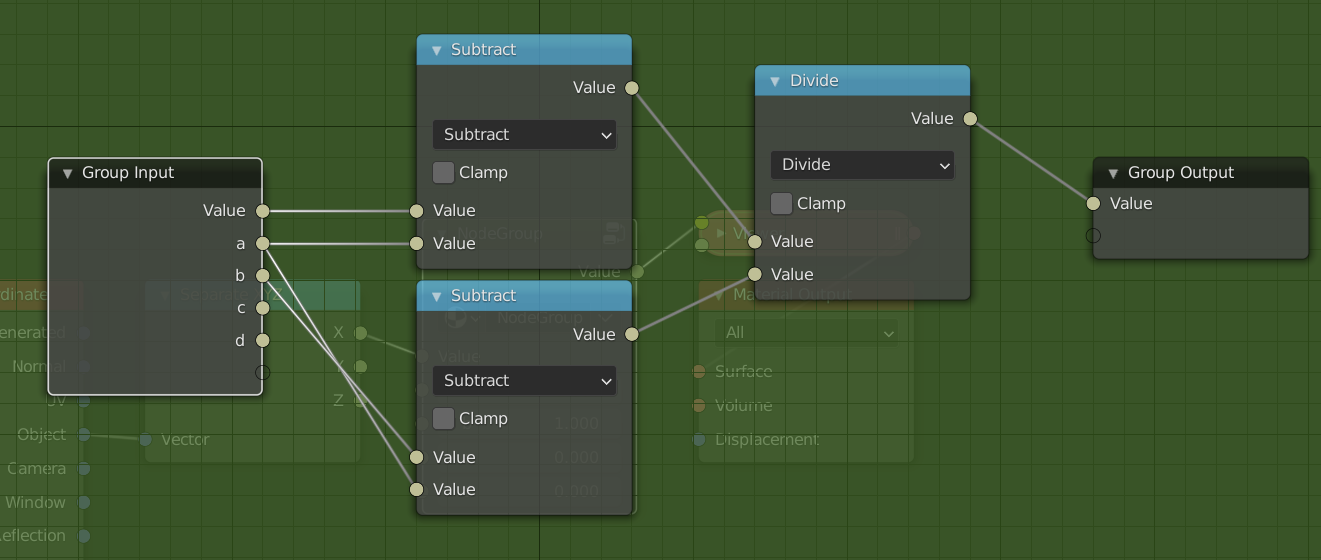
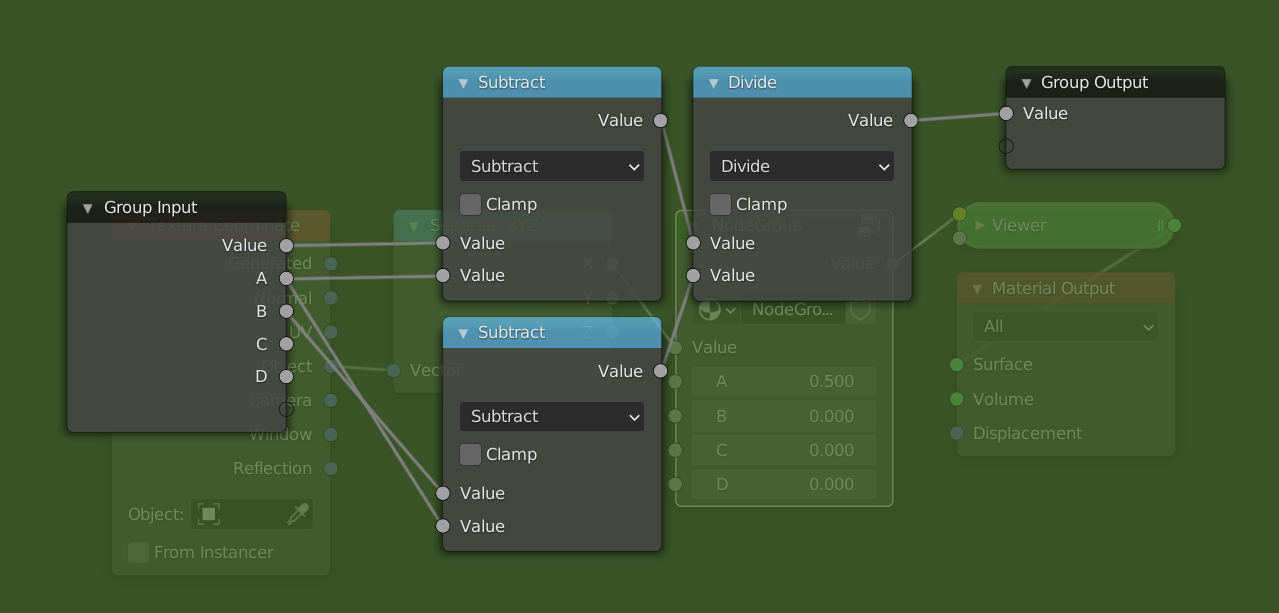
Fix consistency between sections. - All nodes and ranges are now in inline code blocks - Images used are from blender 2.93 (for correct socket colors)

diff --git a/src/mnode/basic_ops.md b/src/mnode/basic_ops.md
@@ -4,11 +4,11 @@ We will start from this node tree:
 
 ![Starting node group](images/mn1.png)
 
-We will go into more detail on coordinates in a later chapter, for now all you need to know is that the object coordinates are centered at the object origin, and go from -1 to 1 in all three axes in this case. The separate xyz allows us to only look at one axis at a time, in this case the x-axis. The viewer node is just a renamed emission node.
+We will go into more detail on coordinates in a later chapter, for now all you need to know is that the object coordinates are centered at the object origin, and go from -1 to 1 in all three axes in this case. The `Separate XYZ` node allows us to only look at one axis at a time, in this case the x-axis. The viewer node is just a renamed `Emission Shader` node.
 
 ## Thinking in terms of ranges
 
-The current output shows black in the left half and grey values going to white in the right half. This is one way to describe the output, but from this it is not so clear what the actual output values are. A better way to think about the output image is as a *linear gradient from -1 to 1*. The *range* of the gradient is [-1, 1] in this case. What this means is that the pixel value as you move from one side to the other changes from -1 to 1. The change here is along the x axis and goes from left to right (from lower values to bigger values). Because values below 0 are displayed as black, the left half of the image is black. If the gradient was along the y-axis then it would be going from the bottom to the top. 
+The current output shows black in the left half and grey values going to white in the right half. This is one way to describe the output, but from this it is not so clear what the actual output values are. A better way to think about the output image is as a *linear gradient from -1 to 1*. The *range* of the gradient is `[-1, 1]` in this case. What this means is that the pixel value as you move from one side to the other changes from -1 to 1. The change here is along the x axis and goes from left to right (from lower values to bigger values). Because values below 0 are displayed as black, the left half of the image is black. If the gradient was along the y-axis then it would be going from the bottom to the top. 
 
 In addition to the range of values, we can also talk about the *shape* of the gradient. In this case the shape is linear, because when we plot the value of each pixel as we move from left to right the plotted shape is a line:
 
@@ -18,51 +18,51 @@ The most common shape is a linear gradient.
 
 ## The math node
 
-Now that we have learned about gradients and ranges, it is time to manipulate them. In this section we will look at the most basic operations: add, subtract, multiply and divide. What happens when we add a math node in between the separate xyz node and the viewer node? The values that go into the viewer node will now first pass through the math node. The math node will apply an operation to the values that are passed in and return a new value. By default the math node is set to add, and both values set to 0.5. The add, subtract, multiply and divide modes only affect the range and not the shape.
+Now that we have learned about gradients and ranges, it is time to manipulate them. In this section we will look at the most basic operations: `Add`, `Subtract`, `Multiply` and `Divide`. What happens when we add a `Math` node in between the `Separate XYZ` node and the viewer node? The values that go into the viewer node will now first pass through the `Math` node. The `Math` node will apply an operation to the values that are passed in, and return a new value. By default the `Math` node is set to `Add`, and both values set to 0.5. The `Add`, `Subtract`, `Multiply` and `Divide` modes only affect the range and not the shape.
 
 ![Node setup](images/mn2.png)
 
 ### Add and Subtract
 
-Currently the range is [-1, 1]. When it passes through the math node 0.5 is added to every value in the range. Luckily we don't need to think about what happens to every value in the range. We only need to look at the the two endpoints, i.e -1 and 1. Because we add 0.5 to everything, the range changes from [-1, 1] to [-0.5, 1.5]. You can think of this as moving the line 0.5 units upwards or moving the gradient 0.5 units to the left, whichever is more intuitive for you. 
+Currently the range is `[-1, 1]` . When it passes through the math node 0.5 is added to every value in the range. Luckily we don't need to think about what happens to every value in the range. We only need to look at the the two endpoints, i.e -1 and 1. Because we add 0.5 to everything, the range changes from `[-1, 1]` to `[-0.5, 1.5]` . You can think of this as moving the line 0.5 units upwards or moving the gradient 0.5 units to the left, whichever is more intuitive for you. 
 
-If we now change the value of the add node, the range will move left or right. Increasing the value of the second input means we make the values in the range bigger, causing them to move to the right on the number line. This means, however, that the darker values will move to the left in the range, and because of that we perceive it as moving the image to the left. If we instead add negative values the result is the complete opposite.
+If we now change the value of the `Add` node, the range will move left or right. Increasing the value of the second input means we make the values in the range bigger, causing them to move to the right on the number line. This means, however, that the darker values will move to the left in the range, and because of that we perceive it as moving the image to the left. If we instead add negative values the result is the complete opposite.
 
-A good way to see this, is to think about the middle value or center of the range. The center of a range represents its position. We can calculate the center of the range [a, b] as
+A good way to see this, is to think about the middle value or center of the range. The center of a range represents its position. We can calculate the center of the range `[a, b]` as
 \\[\frac{a+b}{2}\\]
-If the range is [-1, 1] then the center is at 0. When we add 0.5 the new range is [-0.5, 1.5] and the center is now at 0.5. The old center, 0, is no longer in the center of the range but has moved to the left in the range, i.e. the old center is to the left of the new center. We will therefore see it as moving to the left. If we subtract values by changing the mode to subtract or by adding negative values, the range will move to the left and the old center will move to the right of the new center.
+If the range is `[-1, 1]` then the center is at 0. When we add 0.5 the new range is `[-0.5, 1.5]` and the center is now at 0.5. The old center, 0, is no longer in the center of the range but has moved to the left in the range, i.e. the old center is to the left of the new center. We will therefore see it as moving to the left. If we subtract values by changing the mode to `Subtract` or by adding negative values, the range will move to the left and the old center will move to the right of the new center.
 
-In conclusion, the add mode allows us to reposition a range. This is sometimes referred to as translation. If we want to move things to the left we add positive numbers, and if we want to move things to the right we add negative numbers.
+In conclusion, the `Add` mode allows us to reposition a range. This is sometimes referred to as translation. If we want to move things to the left we add positive numbers, and if we want to move things to the right we add negative numbers.
 
 ### Multiply and Divide
 
-We have now seen how to position a range. If this was the only thing we could do with ranges we would be very limited. Luckily the multiply mode allows us to scale the range. To see how this works let's look at an example once again.
+We have now seen how to position a range. If this was the only thing we could do with ranges we would be very limited. Luckily the `Multiply` mode allows us to scale the range. To see how this works let's look at an example once again.
 
 ![Multiply node](images/mn3.png)
 
-The input range is [-1, 1], and we multiply everything by 0.5. This means that the new range is now [-0.5, 0.5]. The center of the old range was 0, and that of the new range is still 0. Therefore the position has not changed. What has changed however is the (signed) length of the range, which we can calculate as follows: 
+The input range is `[-1, 1]` , and we multiply everything by 0.5. This means that the new range is now `[-0.5, 0.5]` . The center of the old range was 0, and that of the new range is still 0. Therefore the position has not changed. What has changed however is the (signed) length of the range, which we can calculate as follows: 
 \\[b-a\\]
-The length of the range [-1, 1] is 2, while the length of the new range, [-0.5, 0.5], is 1. This is exactly \\(0.5*2\\), so the length of the old range multiplied by the value in the multiply socket. The length of the range has decreased, which we perceive visually as zooming in. If we were to multiply by a value greater than 1, say 2, then the length would increase giving the effect of zooming out. In addition to increasing or decreasing the length of the range, we can also think of multiplying as darkening or brightening an image. If we multiply by a value less than 1, the values get darker. If we multiply by a value greater than 1 the values get brighter.
+The length of the range `[-1, 1]` is 2, while the length of the new range, `[-0.5, 0.5]` , is 1. This is exactly \\(0.5*2\\), so the length of the old range multiplied by the value in the we gave as input. The length of the range has decreased, which we perceive visually as zooming in. If we were to multiply by a value greater than 1, say 2, then the length would increase giving the effect of zooming out. In addition to increasing or decreasing the length of the range, we can also think of multiplying as darkening or brightening an image. If we multiply by a value less than 1, the values get darker. If we multiply by a value greater than 1 the values get brighter.
 
-What happens if you multiply by a negative number? Let's say we multiply the range [-1, 1] with -1, then the new range is [1, -1]. We have flipped the range! This range has a signed length of -2, this means that instead of increasing from left to right, it now goes from right to left. Visually we perceive this as mirroring the range.
+What happens if you multiply by a negative number? Let's say we multiply the range `[-1, 1]` with -1, then the new range is `[1, -1]` . We have flipped the range! This range has a signed length of -2, this means that instead of increasing from left to right, it now goes from right to left. Visually we perceive this as mirroring the range.
 
 ## Summary
 
-To move, translate or reposition a range we can use the "add" or "subtract" mode. To resize, scale or flip a range we can use the "multiply" or "divide" mode.
+To move, translate or reposition a range we can use the `Add` or `Subtract` mode. To resize, scale or flip a range we can use the `Multiply` or `Divide` mode.
 
 ---
 ## Example: map range node from scratch
 
-To put our newly learned skills to the test we will recreate the map range node from scratch. The map range node is a very useful node that lets you go from one range to another, by specifying the endpoints. If we wanted to convert the range [-1, 1] to [0.5, 2] we would use these settings:
+To put our newly learned skills to the test we will recreate the map range node from scratch. The map range node is a very useful node that lets you go from one range to another, by specifying the endpoints. If we wanted to convert the range `[-1, 1]` to `[0.5, 2]` we would use these settings:
 
 ![map range node](images/map_range.png)
 
 ### Steps needed
-To convert from one range [a, b] to the other [c, d] we will use the following steps:
-1. Subtract `a` from the range. This will convert it to the range [0, b-a].
-2. Make the input range have length 1 by dividing by its length \\((b-a)\\). The new range is now [0, 1]. In many cases when working with ranges, you want to work with a range from 0 to 1, or [-1, 1]. The reasons for this will become clear when we start changing the shape.
-3. Resize the range to the length of the output range by multiplying by \\(d-c\\). The range is now [0, d-c]. It already has the correct length.
-4. We position the range so that the endpoints match, by adding `c`. The new range is now [c, d]. This is the result we wanted.
+To convert from one range `[a, b]` to the other `[c, d]` we will use the following steps:
+1. Subtract `a` from the range. This will convert it to the range `[0, b-a]` .
+2. Make the input range have length 1 by dividing by its length \\((b-a)\\). The new range is now `[0, 1]` . In many cases when working with ranges, you want to work with a range from 0 to 1, or `[-1, 1]` . The reasons for this will become clear when we start changing the shape.
+3. Resize the range to the length of the output range by multiplying by \\(d-c\\). The range is now `[0, d-c]` . It already has the correct length.
+4. We position the range so that the endpoints match, by adding `c`. The new range is now `[c, d]` . This is the result we wanted.
 
 For the more mathematically inclined, the full formula looks like this:
 \\[
@@ -78,13 +78,13 @@ Add a math node between the separate xyz and the viewer node. Select it and pres
 
 We will now follow the steps from above but using math nodes. If I refer to socket names, they are the same as in the picture. Notice how the computations with ranges we described earlier are easily translated to operations with the math node.
 
-1. Change the mode of the math node to "Subtract", and connect the `a` socket with the second input of the subtract node.
-2. Add a divide node between the subtract node and the group output. Copy the subtract node (`Shift + D`), and connect the `a` socket to the second input and the `b` socket to the first input. (This node will thus compute \\(b-a\\)). Then plug the result of this subtract node into the second input of the divide node.
+1. Change the mode of the math node to "Subtract", and connect the `A` socket with the second input of the `Subtract` node.
+2. Add a `Divide` node between the `Subtract` node and the group output. Copy the `Subtract` node (`Shift + D`), and connect the `B` socket to the second input and the `A` socket to the first input. (This node will thus compute B - A. Then plug the result of this `Subtract` node into the second input of the `Divide` node.
 
 ![map range 3](images/map_range3.png)
 
-3. Add a multiply node after the divide node, and a subtract node below the other subtract nodes. Plug the `c` socket into the second input of the subtract node and the `d` socket into the first input. Then plug the result of that into the second input of the multiply node.
-4. Now just add an add node after the multiply node and plug the `c` socket into the second input.
+3. Add a `Multiply` node after the `Divide` node, and a `Subtract` node below the other `Subtract` nodes. Plug the `C` socket into the second input of the `Subtract` node and the `D` socket into the first input. Then plug the result of that into the second input of the `Multiply` node.
+4. Now just add an `Add` node after the `Multiply` node and plug the `C` socket into the second input.
 
 ![Final setup](images/map_range4.png)
 

diff --git a/src/mnode/sockets.md b/src/mnode/sockets.md
@@ -5,7 +5,7 @@ When working with nodes, it is very important to keep in mind that the data that
 - Values are indicated with greyish sockets
 - Colors are indicated with yellowish sockets
 - Vectors are indicated with blue/purplish sockets
-- Shaders used to be indicated with green sockets and are now indicated with red sockets.
+- Shaders are indicated with greenish sockets
 
 You can see the different types of sockets here:
 
